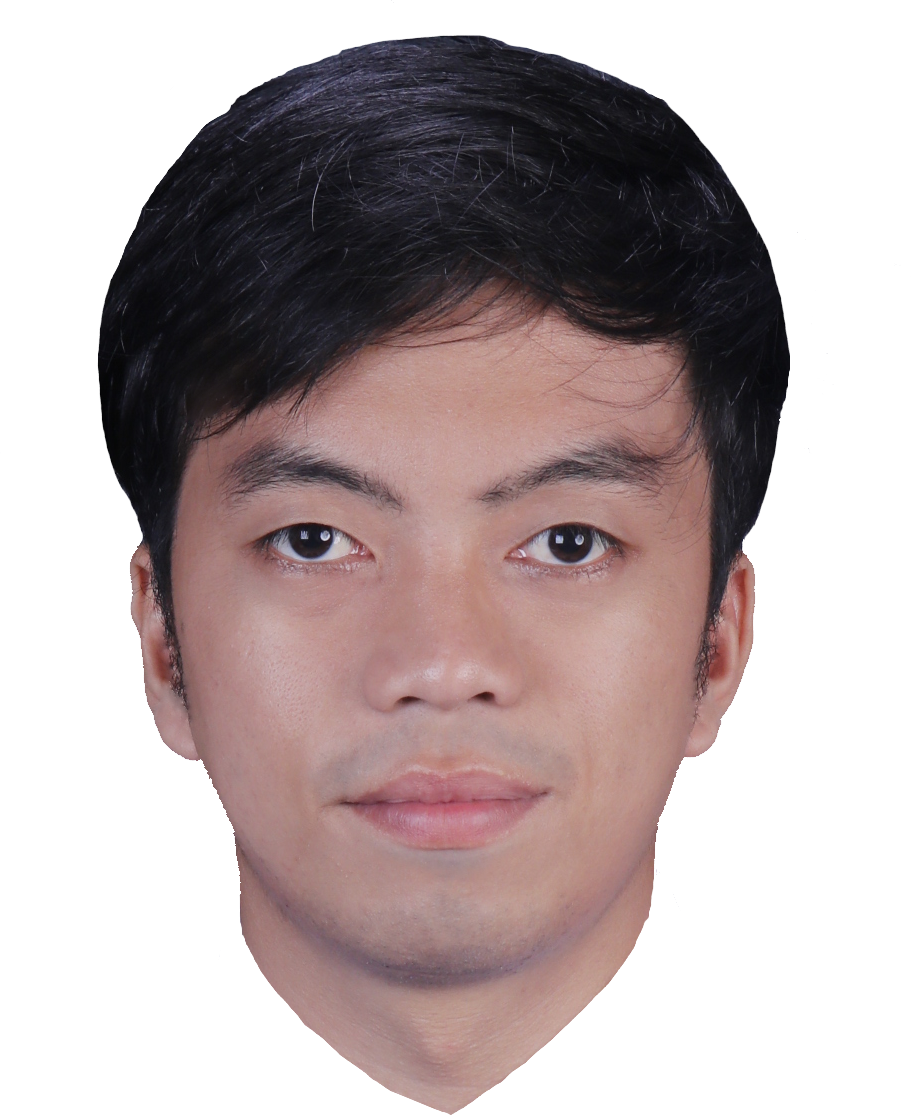
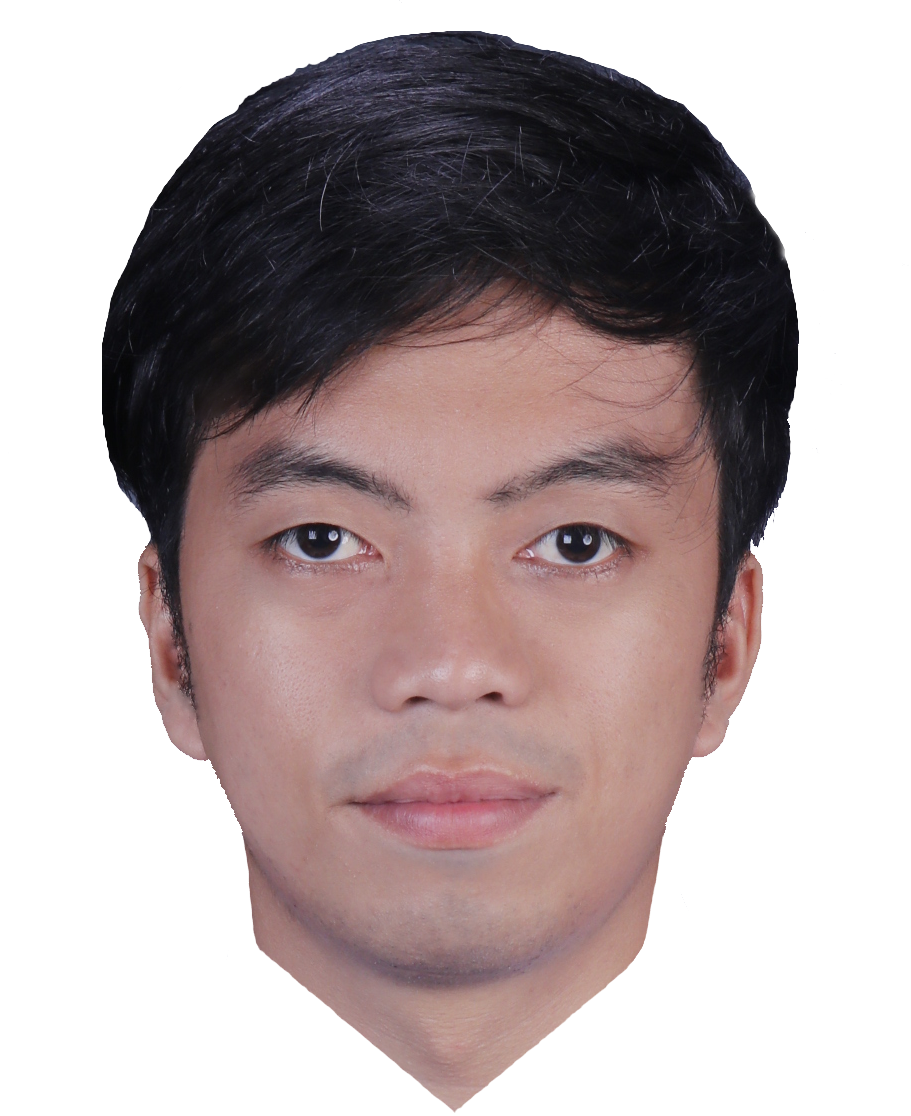
added hero_bg

diff --git a/src/pages/Home.jsx b/src/pages/Home.jsx
@@ -20,16 +20,27 @@ export default function Home() {
       }}
     >
       <Box px={2} py={4}>
-        <Box
-          textAlign="center"
-          sx={{
-            paddingTop: "50px",
-          }}
-        >
-          <img src="/images/me.png" width="200px" />
+        <Box sx={{ display: "flex", justifyContent: "center" }}>
+          <Box
+            sx={{
+              background: "url(/images/hero_bg.png)",
+              backgroundPosition: "center",
+              backgroundSize: "cover",
+              backgroundRepeat: "no-repeat",
+              width: "200px",
+              textAlign: "center",
+            }}
+          >
+            <img
+              src="/images/me.png"
+              width="100%"
+              style={{ paddingLeft: "25px", paddingRight: "25px" }}
+            />
+          </Box>
         </Box>
 
         <Typography
+          pt={2}
           textAlign="center"
           gutterBottom
           variant="h5"
